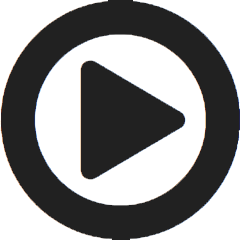
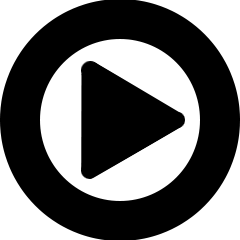
Added better Play Button Image

diff --git a/js/Game.js b/js/Game.js
@@ -26,12 +26,6 @@ export class Game {
 
     this.isStarted = false;
 
-    this.bgImg = new Image();
-    this.bgImg.src = "images/background.png";
-    this.bgImg.onload = () => {
-      this.bgPattern = this.ctx.createPattern(this.bgImg, 'repeat');
-      this.ctx.fillStyle = this.bgPattern;
-    }
     this.bgRadius = Math.floor(this.canvas.width * 1.2);
     this.bgCenter = {
       x: this.canvas.width / 2,
@@ -70,7 +64,7 @@ export class Game {
     this.playImage.onload = () => {
       this.startButton = {
         x: 1.75 * this.canvas.width / 4,
-        y: this.canvas.height / 2,
+        y: this.canvas.width *0.3,
         width: this.canvas.width / 8,
         height: this.canvas.width / 8,
         image: this.playImage,
@@ -80,7 +74,7 @@ export class Game {
 
       this.restartButton = {
         x: 1.75 * this.canvas.width / 4,
-        y: this.canvas.height / 2,
+        y: this.canvas.wodth * 0.3,
         width: this.canvas.width / 8,
         height: this.canvas.width / 8,
         image: this.playImage,

diff --git a/js/build/app.js b/js/build/app.js
@@ -723,12 +723,6 @@ class Game {
 
     this.isStarted = false;
 
-    this.bgImg = new Image();
-    this.bgImg.src = "images/background.png";
-    this.bgImg.onload = () => {
-      this.bgPattern = this.ctx.createPattern(this.bgImg, 'repeat');
-      this.ctx.fillStyle = this.bgPattern;
-    }
     this.bgRadius = Math.floor(this.canvas.width * 1.2);
     this.bgCenter = {
       x: this.canvas.width / 2,
@@ -767,7 +761,7 @@ class Game {
     this.playImage.onload = () => {
       this.startButton = {
         x: 1.75 * this.canvas.width / 4,
-        y: this.canvas.height / 2,
+        y: this.canvas.width *0.3,
         width: this.canvas.width / 8,
         height: this.canvas.width / 8,
         image: this.playImage,
@@ -777,7 +771,7 @@ class Game {
 
       this.restartButton = {
         x: 1.75 * this.canvas.width / 4,
-        y: this.canvas.height / 2,
+        y: this.canvas.wodth * 0.3,
         width: this.canvas.width / 8,
         height: this.canvas.width / 8,
         image: this.playImage,
